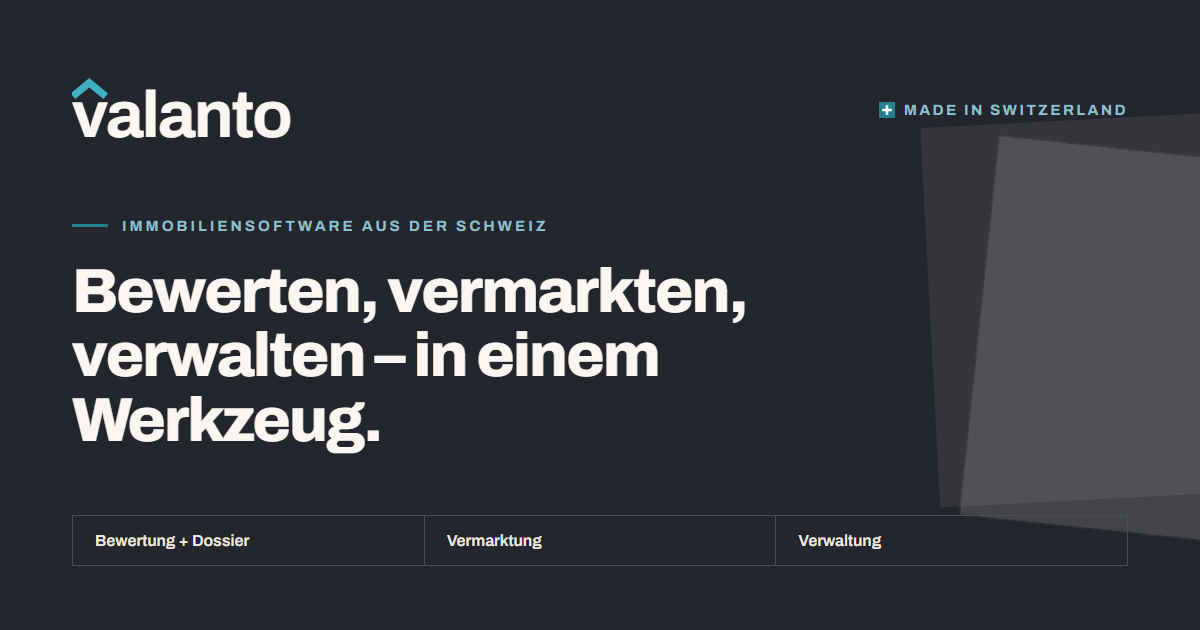
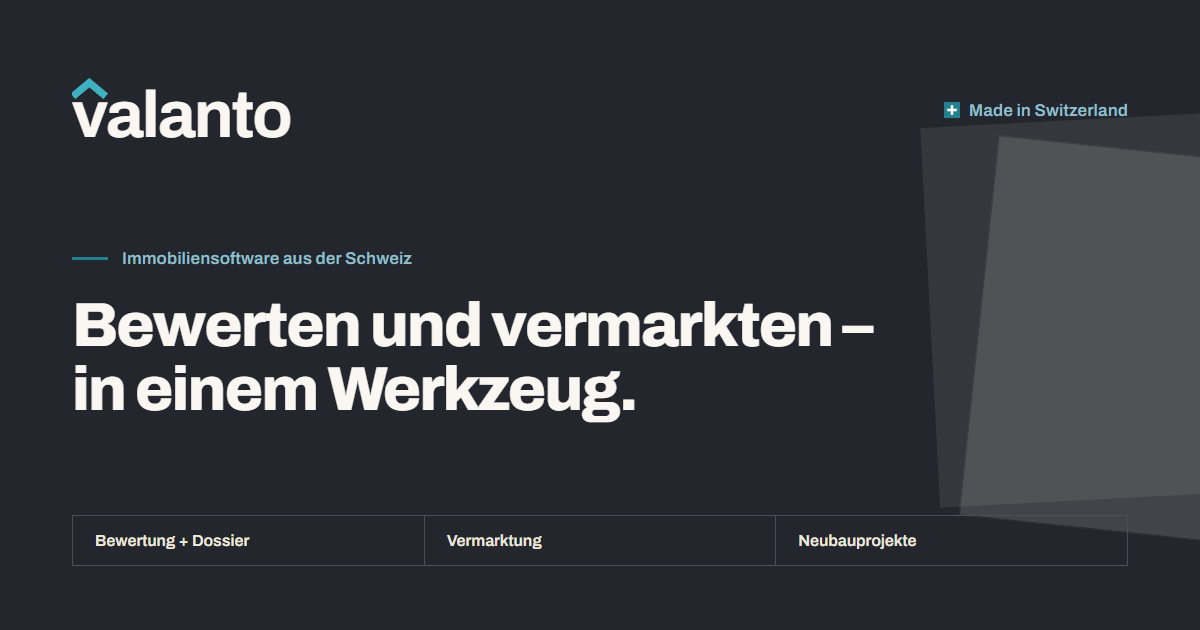
OG-Bild mit neuem Claim und ohne Versalien neu gerendert
Claim «Bewerten und vermarkten – in einem Werkzeug.», Badge und Kicker in
normaler Schreibweise (letter-spacing 0.01em, 17px statt 15px), dritte
Kachel «Neubauprojekte» statt «Verwaltung». public/og-image.png mit
puppeteer-core und Chrome headless neu erzeugt, 1200×630, Archivo geladen.

Changed region(s): [[0.0617, 0.3317, 0.74, 0.7238], [0.7092, 0.1508, 0.9558, 0.2111], [0.6475, 0.8444, 0.7708, 0.8746]]

diff --git a/og-image-source.html b/og-image-source.html
@@ -18,19 +18,19 @@
       <div style="display:flex;align-items:baseline;gap:10px">
         <svg width="228" height="92" viewBox="0 0 250 96" aria-label="valanto"><text x="0" y="78" font-family="'Archivo',sans-serif" font-size="72" font-weight="700" fill="#FAF7F2" letter-spacing="-2">valanto</text><path d="M1 33 L19 18 L37 33" fill="none" stroke="#3FB0C0" stroke-width="8" stroke-linejoin="miter" stroke-linecap="butt"></path></svg>
       </div>
-      <div style="display:inline-flex;align-items:center;gap:9px;font-size:15px;font-weight:700;letter-spacing:0.16em;color:#8FBFC8"><svg width="16" height="16" viewBox="0 0 14 14" style="flex:none"><rect width="14" height="14" fill="#23808F"></rect><rect x="5.9" y="2.8" width="2.2" height="8.4" fill="#fff"></rect><rect x="2.8" y="5.9" width="8.4" height="2.2" fill="#fff"></rect></svg>MADE IN SWITZERLAND</div>
+      <div style="display:inline-flex;align-items:center;gap:9px;font-size:17px;font-weight:600;letter-spacing:0.01em;color:#8FBFC8"><svg width="16" height="16" viewBox="0 0 14 14" style="flex:none"><rect width="14" height="14" fill="#23808F"></rect><rect x="5.9" y="2.8" width="2.2" height="8.4" fill="#fff"></rect><rect x="2.8" y="5.9" width="8.4" height="2.2" fill="#fff"></rect></svg>Made in Switzerland</div>
     </div>
     <div style="position:relative;z-index:2;display:flex;flex-direction:column;gap:26px;max-width:820px">
       <div style="display:flex;align-items:center;gap:14px">
         <div style="width:36px;height:3px;background:#23808F"></div>
-        <div style="font-size:15px;font-weight:700;letter-spacing:0.2em;color:#8FBFC8">IMMOBILIENSOFTWARE AUS DER SCHWEIZ</div>
+        <div style="font-size:17px;font-weight:600;letter-spacing:0.01em;color:#8FBFC8">Immobiliensoftware aus der Schweiz</div>
       </div>
-      <div style="font-family:'Archivo',sans-serif;font-size:62px;font-weight:800;line-height:1.04;color:#FAF7F2;letter-spacing:-0.03em">Bewerten, vermarkten, verwalten – in einem Werkzeug.</div>
+      <div style="font-family:'Archivo',sans-serif;font-size:62px;font-weight:800;line-height:1.04;color:#FAF7F2;letter-spacing:-0.03em">Bewerten und vermarkten – in einem Werkzeug.</div>
     </div>
     <div style="position:relative;z-index:2;display:flex;gap:0;border:1px solid #4A4E57">
       <div style="flex:1;padding:16px 22px;font-size:16px;font-weight:600;color:#EDE8DE">Bewertung + Dossier</div>
       <div style="flex:1;padding:16px 22px;font-size:16px;font-weight:600;color:#EDE8DE;border-left:1px solid #4A4E57">Vermarktung</div>
-      <div style="flex:1;padding:16px 22px;font-size:16px;font-weight:600;color:#EDE8DE;border-left:1px solid #4A4E57">Verwaltung</div>
+      <div style="flex:1;padding:16px 22px;font-size:16px;font-weight:600;color:#EDE8DE;border-left:1px solid #4A4E57">Neubauprojekte</div>
     </div>
     <div style="position:absolute;top:150px;right:-80px;width:300px;height:380px;background:#FAF7F2;border:1px solid #4A4E57;transform:rotate(6deg);opacity:0.14;z-index:1"></div>
     <div style="position:absolute;top:120px;right:-30px;width:300px;height:380px;background:#FAF7F2;transform:rotate(-3deg);opacity:0.08;z-index:1"></div>
